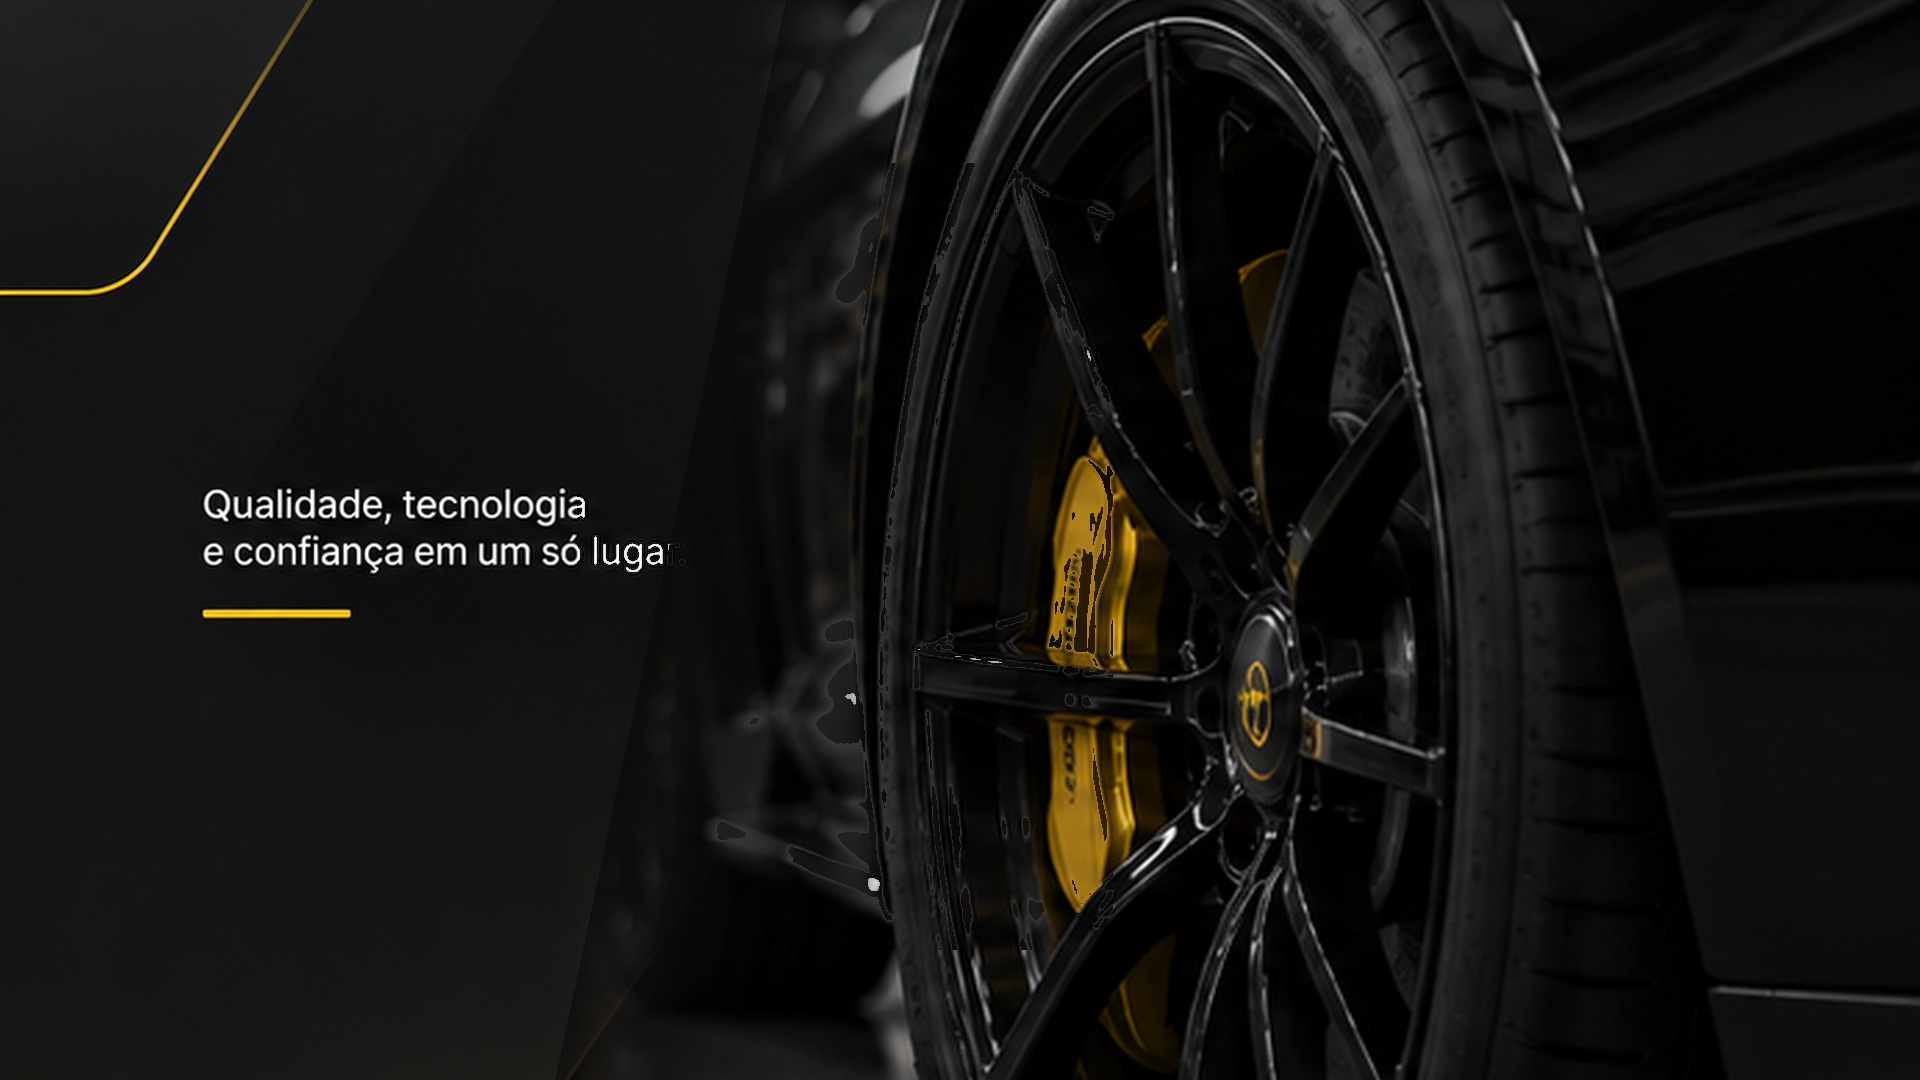
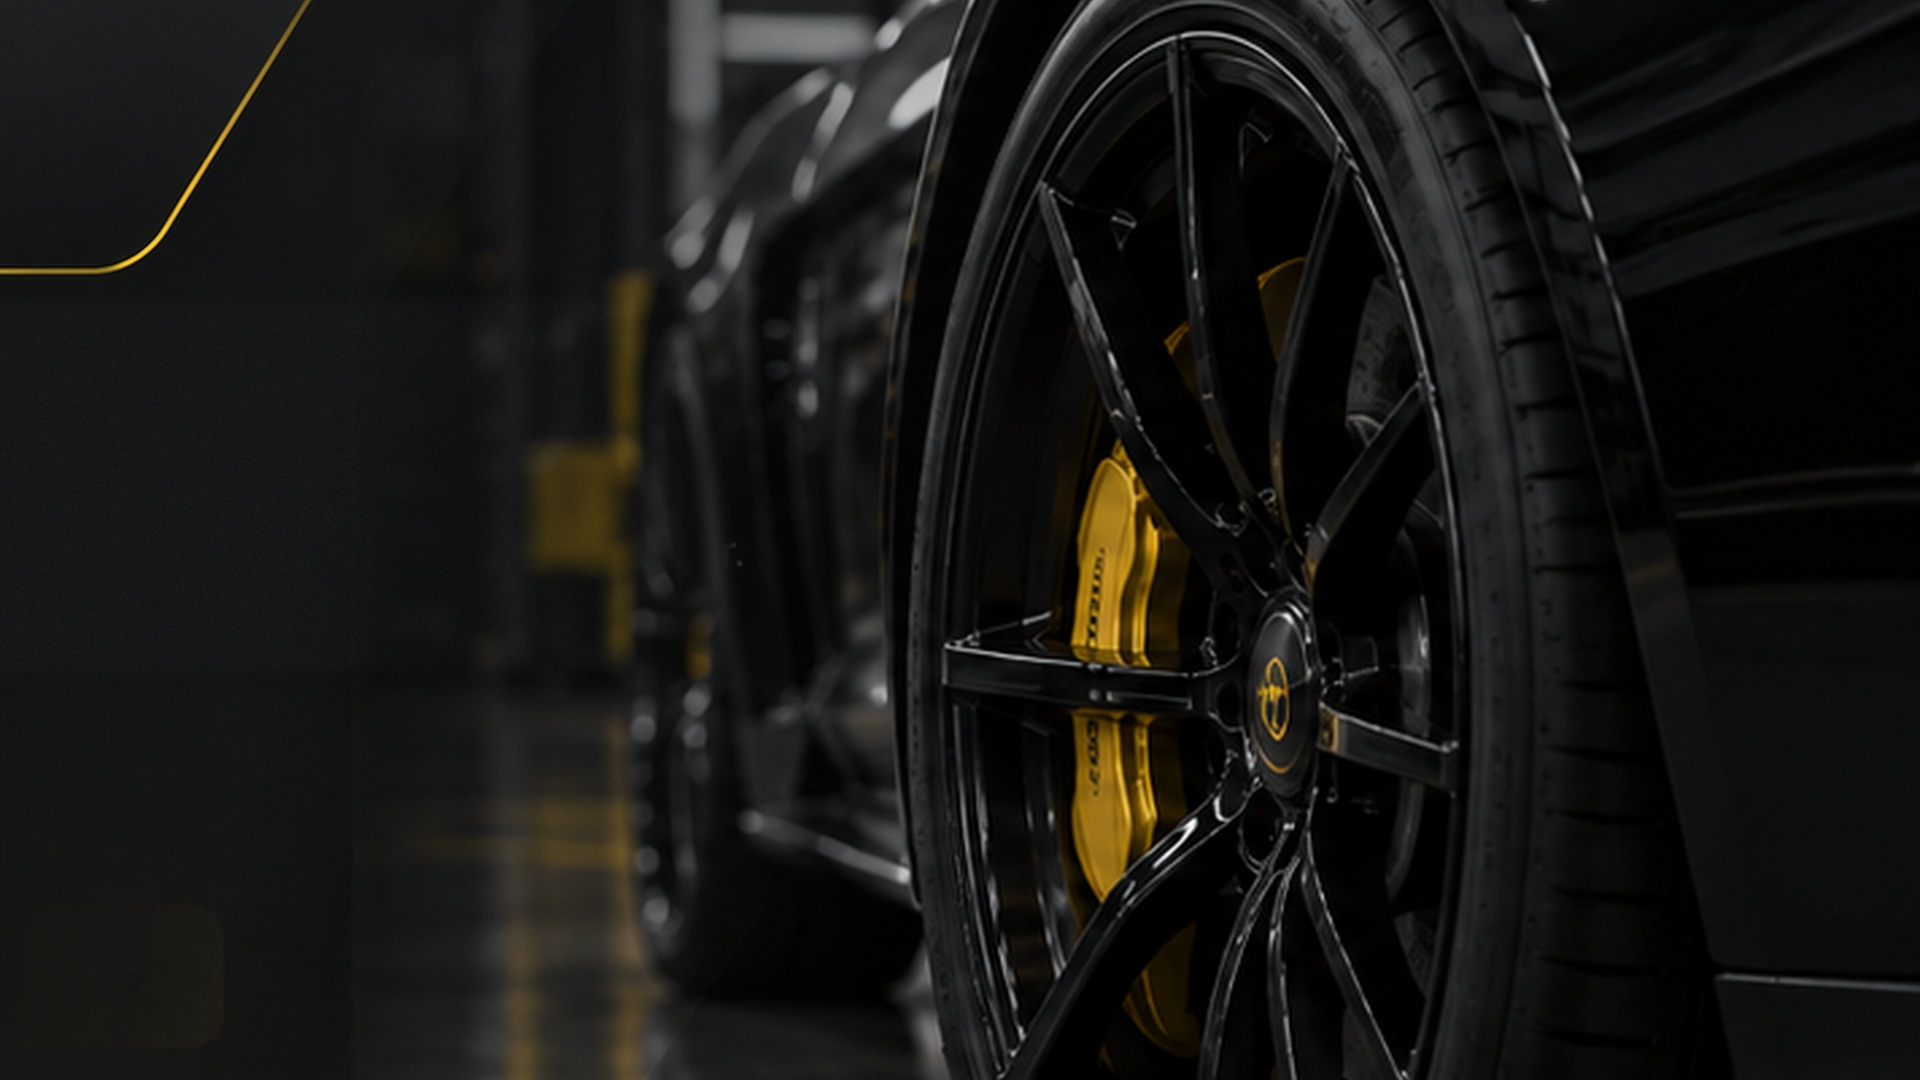
Login: corrige “lugar” cortado e suaviza o degrade
Frase passa a ser HTML (texto completo) e a transição entre o painel
esquerdo e a foto da roda fica com degrade bem mais suave.

diff --git a/components/views/LoginView.tsx b/components/views/LoginView.tsx
@@ -63,15 +63,25 @@ export const LoginView: React.FC<LoginViewProps> = ({ onLogin }) => {
           alt=""
           className="absolute inset-0 h-full w-full object-cover object-[center_center]"
         />
+        {/* Degrade extra (desktop): transição bem suave painel ↔ foto */}
+        <div
+          className="absolute inset-0 hidden md:block"
+          style={{
+            background:
+              'linear-gradient(100deg, rgba(10,10,11,0.88) 0%, rgba(10,10,11,0.72) 22%, rgba(10,10,11,0.45) 38%, rgba(10,10,11,0.22) 50%, rgba(10,10,11,0.08) 62%, transparent 78%)',
+          }}
+        />
         {/* Mobile: escurece o herói para o card legível */}
         <div className="absolute inset-0 bg-gradient-to-b from-black/55 via-black/35 to-black/70 md:hidden" />
       </div>
 
-      {/*
-        A frase + desenhos amarelos do painel esquerdo vêm do login-bg (igual à referência).
-        No mobile o crop do fundo muda — repetimos a frase abaixo do card.
-      */}
-      <p className="sr-only">Qualidade, tecnologia e confiança em um só lugar.</p>
+      {/* Frase no painel esquerdo (HTML — “lugar” completo, sem corte do fundo) */}
+      <div className="pointer-events-none absolute left-[4%] top-[40%] z-10 hidden max-w-[min(310px,26vw)] -translate-y-1/2 lg:block xl:left-[5%] xl:max-w-[340px]">
+        <p className="font-display text-[22px] font-semibold leading-[1.3] tracking-tight text-white xl:text-[26px]">
+          Qualidade, tecnologia e confiança em um só lugar.
+        </p>
+        <div className="mt-5 h-[3px] w-14 rounded-full bg-[#F5C518]" />
+      </div>
 
       <div className="relative z-20 flex h-full min-h-0 flex-col items-center justify-center overflow-y-auto overscroll-none px-5 py-10 safe-area-pb sm:px-6">
         <div className="w-full max-w-[400px]">
